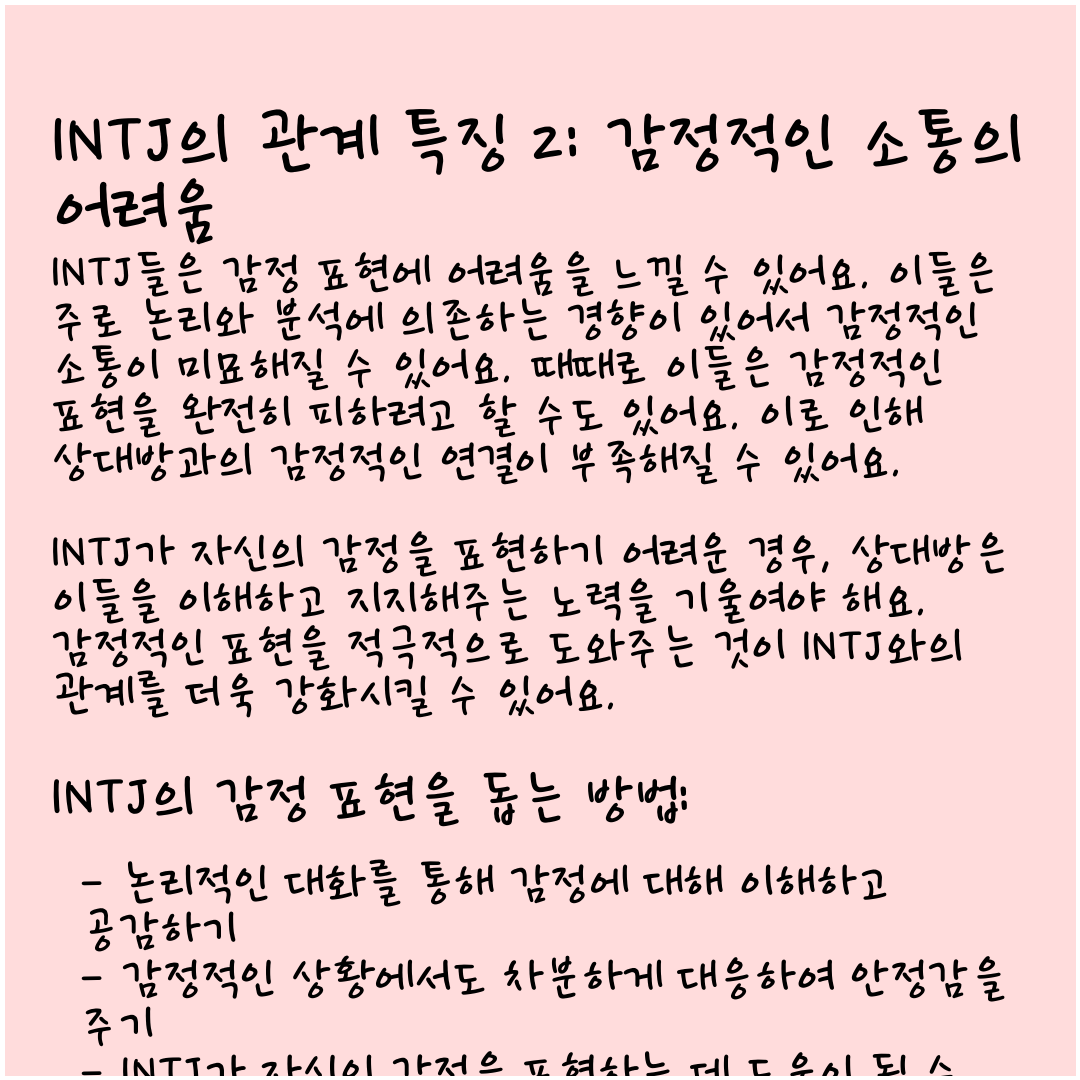
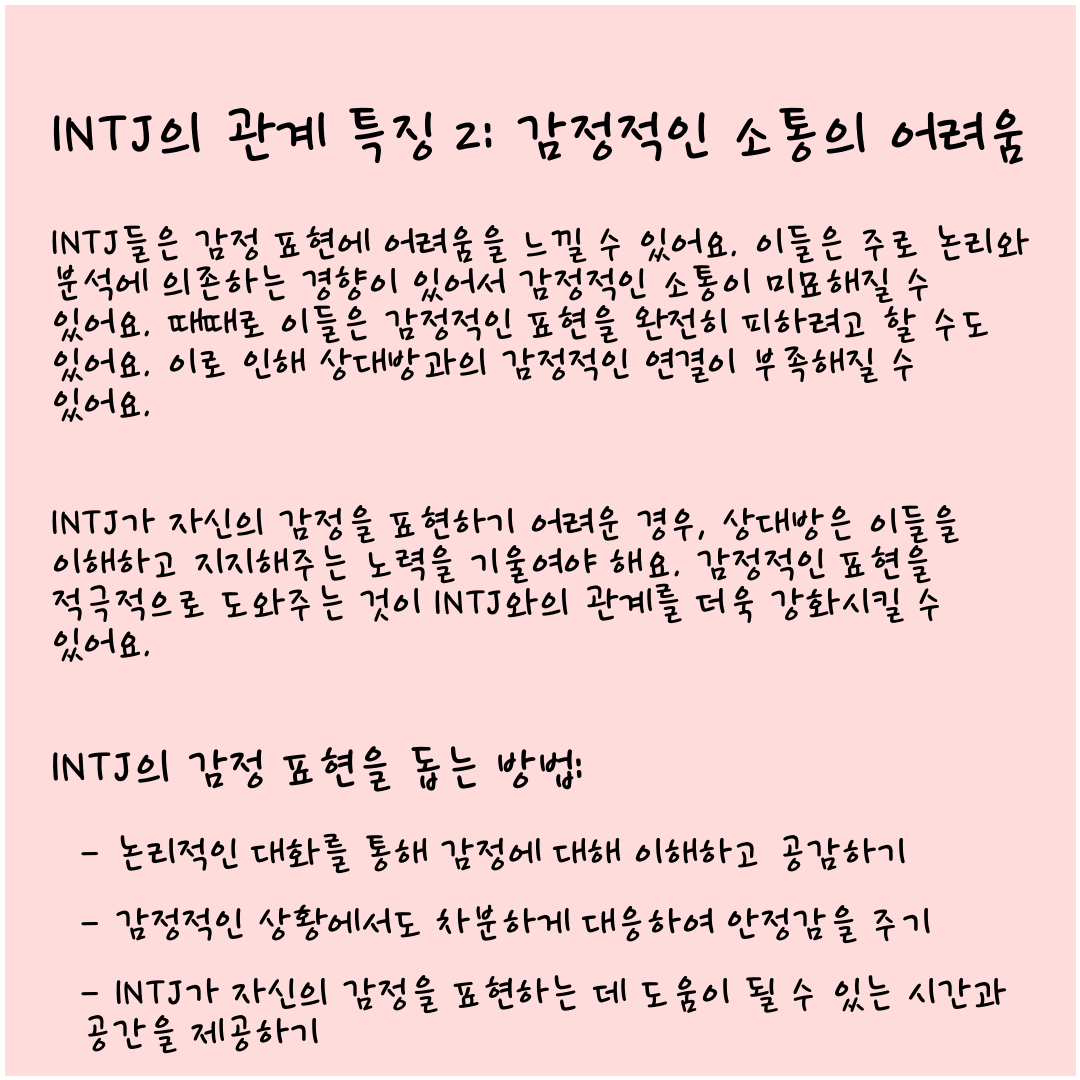
글씨크기 초과 이슈 해결

Changed region(s): [[0.0306, 0.0917, 0.9472, 1.0], [0.6417, 0.9778, 0.8861, 1.0], [0.4889, 0.9778, 0.6111, 1.0]]

diff --git a/generateCardnewsContentImageByContent.py b/generateCardnewsContentImageByContent.py
@@ -1,60 +1,81 @@
 from bs4 import BeautifulSoup
 from PIL import Image, ImageDraw, ImageFont
 from config import BASE_FONT_SIZE, FONT_PATH, IMAGE_SIZE, BACKGROUND_COLOR, TEXT_COLOR, BORDER_COLOR, BORDER_WIDTH
+from remove_emoji import remove_emoji
 
 def generateCardnewsContentImageByContent(html_content, ImageCount):
-    # HTML 파싱
-    soup = BeautifulSoup(html_content, 'html.parser')
 
-    # 이미지 크기 및 배경 설정
-    image_width, image_height = IMAGE_SIZE
-    image = Image.new('RGB', (image_width, image_height), BACKGROUND_COLOR)
-    draw = ImageDraw.Draw(image)
+    base_font_size = 50
+    while True:
+        # HTML 파싱
+        soup = BeautifulSoup(html_content, 'html.parser')
 
-    # 사용할 폰트 설정
-    base_font_size = 50  # 전체적인 글씨 크기를 크게 조절
-    font = ImageFont.truetype(FONT_PATH, base_font_size)
+        # 이미지 크기 및 배경 설정
+        image_width, image_height = IMAGE_SIZE
+        image = Image.new('RGB', (image_width, image_height), BACKGROUND_COLOR)
+        draw = ImageDraw.Draw(image)
 
-    # HTML 태그에 따라 텍스트 그리기
-    y_position = 100  # 시작 위치
-    max_text_width = image_width - 100  # 텍스트가 그려질 최대 가로 길이
+        # 사용할 폰트 설정
+        
+        font = ImageFont.truetype(FONT_PATH, base_font_size)
 
-    for tag in soup.find_all(['h2', 'p', 'h3', 'ul', 'li']):
+        # HTML 태그에 따라 텍스트 그리기
+        y_position = 100  # 시작 위치
+        max_text_width = image_width - 100  # 텍스트가 그려질 최대 가로 길이
 
-        tag_name = tag.name
-        tag_font_size = get_font_size(tag_name, base_font_size)  # 각 태그별로 글씨 크기 계산
-        font = ImageFont.truetype(FONT_PATH, tag_font_size)  # 태그별로 폰트 크기 설정
-        print(tag)
+        for tag in soup.find_all(['h2', 'p', 'h3', 'ul', 'li']):
+            tag_name = tag.name
+            tag_font_size = get_font_size(tag_name, base_font_size)  # 각 태그별로 글씨 크기 계산
+            font = ImageFont.truetype(FONT_PATH, tag_font_size)  # 태그별로 폰트 크기 설정
+            
 
-        if tag_name == 'h2':
-            text = tag.text
-            wrapped_text = wrap_text(draw, text, font, max_text_width)
-            draw.text((50, y_position), wrapped_text, font=font, fill=TEXT_COLOR)
-            y_position += 120 + wrapped_text.count('\n') * 25  # 헤더 다음에 여백 추가
-        elif tag_name == 'h3':
-            text = tag.text
-            wrapped_text = wrap_text(draw, text, font, max_text_width)
-            draw.text((50, y_position), wrapped_text, font=font, fill=TEXT_COLOR)
-            y_position += 30 + wrapped_text.count('\n') * 25  # 소제목 다음에 여백 추가
-        elif tag_name == 'p':
-            text = tag.text
-            wrapped_text = wrap_text(draw, text, font, max_text_width)
-            draw.text((50, y_position), wrapped_text, font=font, fill=TEXT_COLOR)
-            y_position += 120 + wrapped_text.count('\n') * 40  # 문단 다음에 여백 추가
-        elif tag_name == 'ul':
-            y_position += 60  # 리스트 전에 여백 추가
-            for li_tag in tag.find_all('li'):
-                text = '- ' + li_tag.text
-                wrapped_text = wrap_text(draw, text, font, max_text_width - 30)  # 간격 고려
-                draw.text((80, y_position), wrapped_text, font=font, fill=TEXT_COLOR)
-                y_position += 70 + wrapped_text.count('\n') * 25  # 리스트 아이템 다음에 여백 추가
+            y_position = draw_tag(draw, tag, tag_name, font, y_position, max_text_width)
 
-    # 테두리 그리기
-    border_rect = [(0, 0), (image_width, image_height)]
-    draw.rectangle(border_rect, outline=BORDER_COLOR, width=BORDER_WIDTH)
+        # 테두리 그리기
+        border_rect = [(0, 0), (image_width, image_height)]
+        draw.rectangle(border_rect, outline=BORDER_COLOR, width=BORDER_WIDTH)
 
-    # 이미지 저장
-    image.save(f"{ImageCount}.jpg",'png')
+        # 이미지 저장
+        image.save(f"{ImageCount}.jpg", 'png')
+
+        # Check if the total height exceeds the image height
+        if y_position > image_height:
+            # Decrease font size and regenerate the image
+            base_font_size = base_font_size-1
+            print(f"decreasing fontsize... ImageCount : {ImageCount}, current font size : {base_font_size}")
+        else:
+            print(f"{ImageCount}.jpg generated, font size : {base_font_size}")
+            break
+
+
+def draw_tag(draw, tag, tag_name, font, y_position, max_text_width):
+    """
+    Draw text for a specific HTML tag
+    """
+    if tag_name == 'h2':
+        text = remove_emoji(tag.text)
+        wrapped_text = wrap_text(draw, text, font, max_text_width)
+        draw.text((50, y_position), wrapped_text, font=font, fill=TEXT_COLOR)
+        y_position += 120 + wrapped_text.count('\n') * 25  # 헤더 다음에 여백 추가
+    elif tag_name == 'h3':
+        text = remove_emoji(tag.text)
+        wrapped_text = wrap_text(draw, text, font, max_text_width)
+        draw.text((50, y_position), wrapped_text, font=font, fill=TEXT_COLOR)
+        y_position += 30 + wrapped_text.count('\n') * 25  # 소제목 다음에 여백 추가
+    elif tag_name == 'p':
+        text = remove_emoji(tag.text)
+        wrapped_text = wrap_text(draw, text, font, max_text_width)
+        draw.text((50, y_position), wrapped_text, font=font, fill=TEXT_COLOR)
+        y_position += 120 + wrapped_text.count('\n') * 40  # 문단 다음에 여백 추가
+    elif tag_name == 'ul':
+        y_position += 60  # 리스트 전에 여백 추가
+        for li_tag in tag.find_all('li'):
+            text = '- ' + li_tag.text
+            wrapped_text = wrap_text(draw, text, font, max_text_width - 30)  # 간격 고려
+            draw.text((80, y_position), wrapped_text, font=font, fill=TEXT_COLOR)
+            y_position += 70 + wrapped_text.count('\n') * 25  # 리스트 아이템 다음에 여백 추가
+
+    return y_position
 
 def wrap_text(draw, text, font, max_width):
     """
